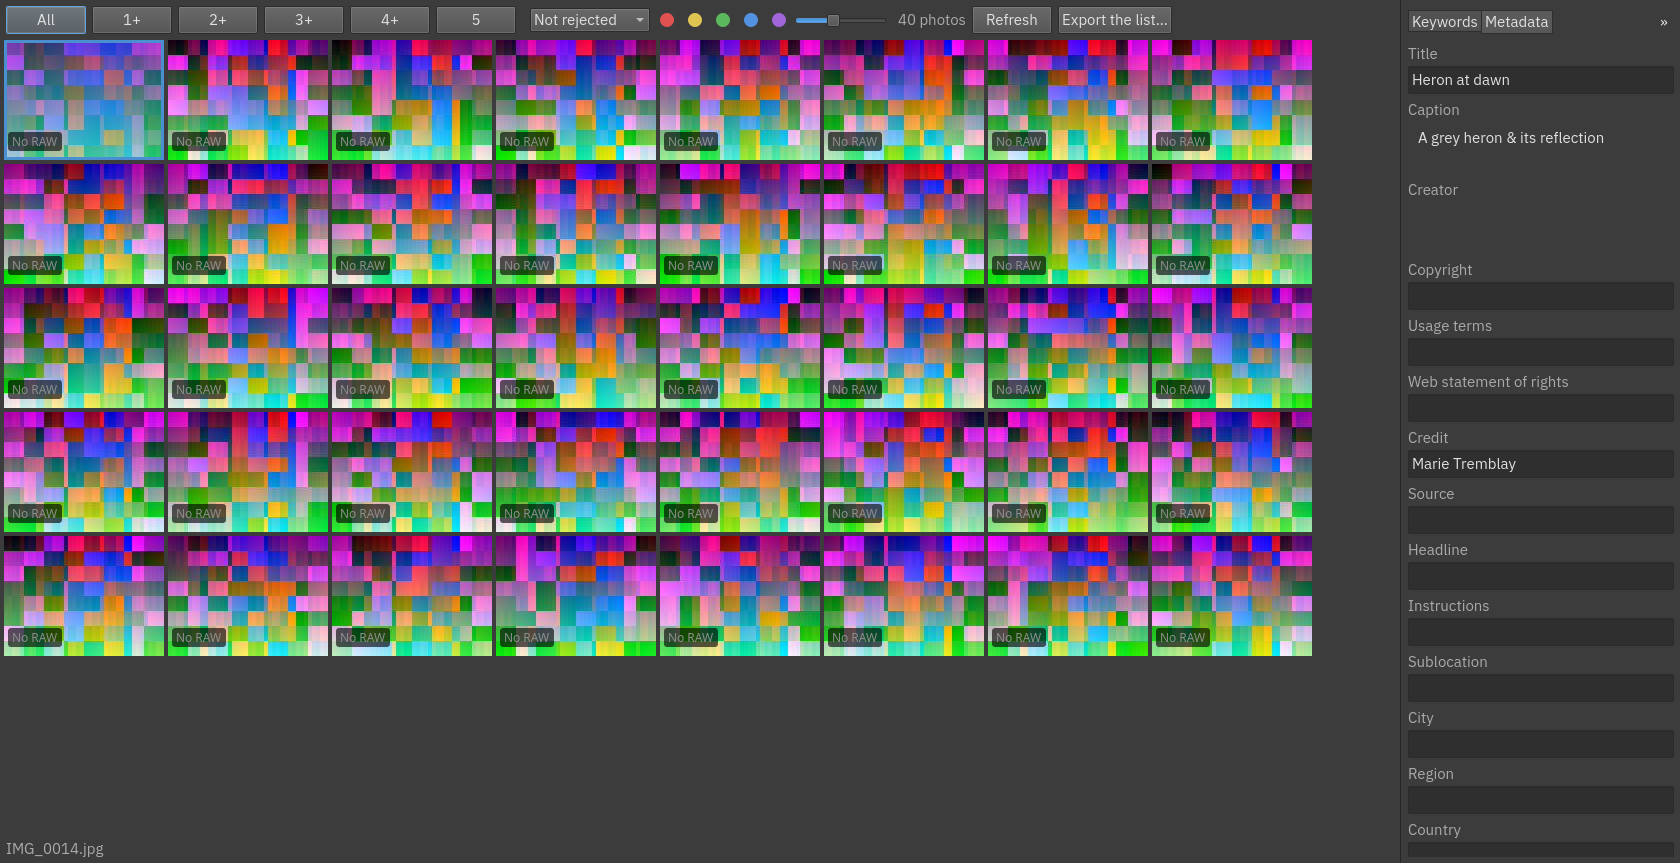
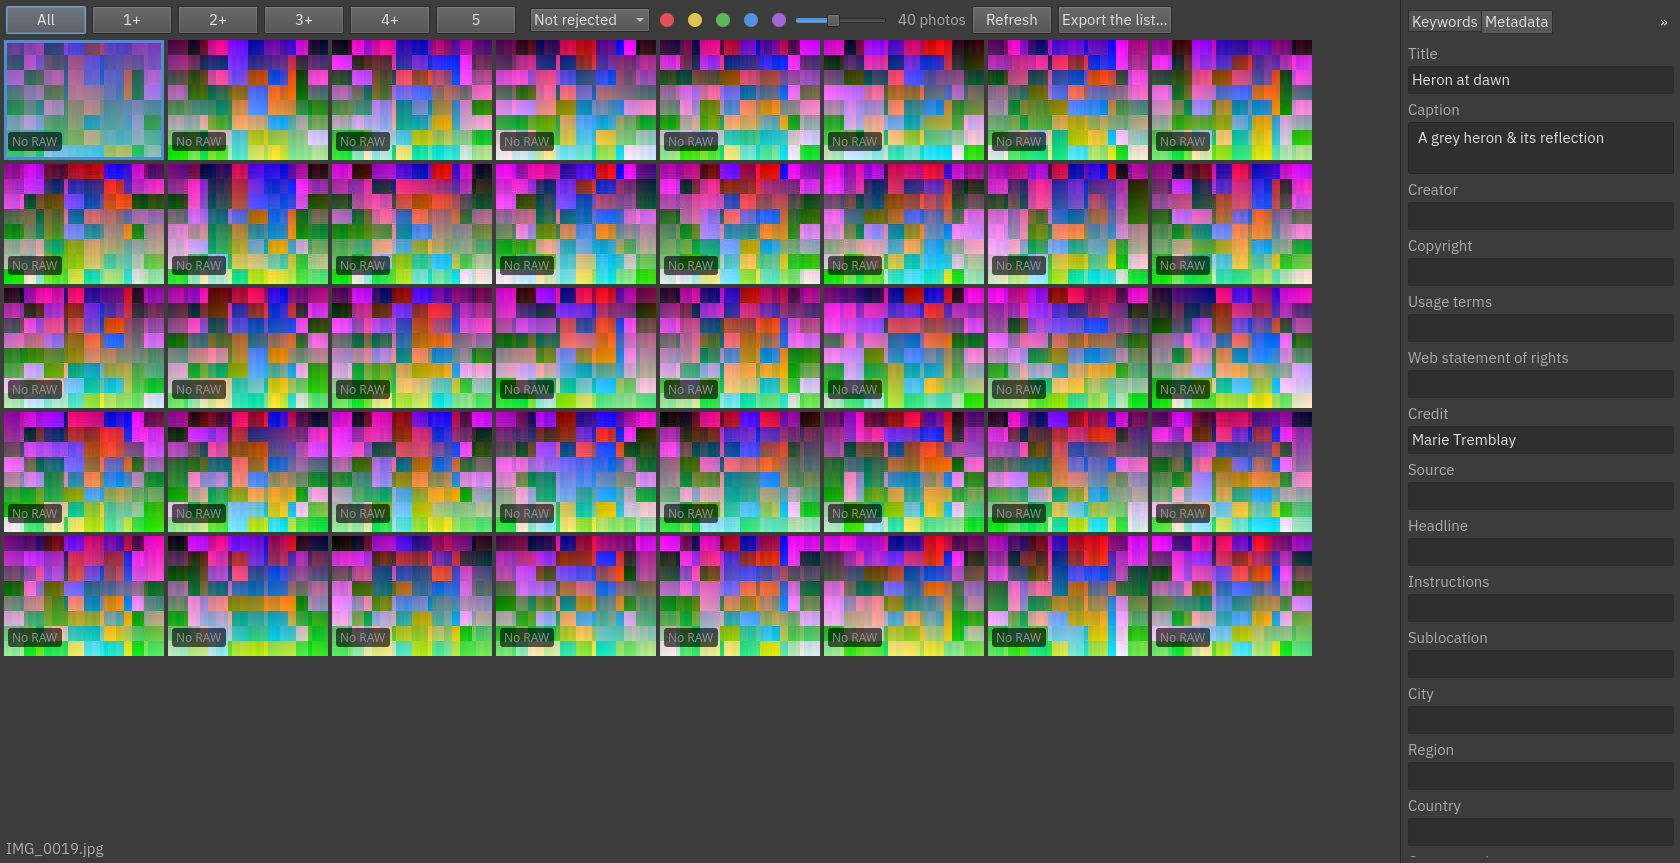
Fix metadata panel review comments, and a macOS-only CI flake
From Patrick's own review the next morning:

- A multi-line field (TextArea) had no background of its own - unlike
  TextField, Fusion does not give it one, so it read as bare text loose on
  the panel, not as a field. It now gets an explicit background matching
  TextField's own look.
- Creator moves from a multi-line field to a single line: almost every photo
  has exactly one. MetadataField::Creator's own get/set is unchanged (still
  Vec<String>, still line-split); only the panel's own field list changed.

Also fixes a macOS-only CI failure this same push's own run caught:
tst_metadata.qml read the panel's mixed/singleLine.text right after a plain
grid click, not waiting for the debounced refresh (Library.qml's usageTimer)
to reach it - passed locally and on Linux/Windows every time, failed
reliably on macOS. Fixed with tryVerify.

- decisions.md: D-122.

diff --git a/crates/ui/qml/MetadataPanel.qml b/crates/ui/qml/MetadataPanel.qml
@@ -8,19 +8,21 @@ import org.auroraw.ui
 // caption and the rest of its plain-text metadata, on one photo or a whole selection. A field where the
 // selection disagrees shows "Multiple values" instead of a value; leaving the field (Tab, a click
 // elsewhere, or Enter for the single-line ones) applies what was typed to the whole selection as one
-// action (`PhotoGrid.setMetadataSelection`, the same shape `labelSelection` already has). Creator and
-// Persons take one name a line. GPS and place names are a later slice's; custom fields have no UI here
-// yet (the engine and the format already carry one end to end, WP10's own custom-field support).
+// action (`PhotoGrid.setMetadataSelection`, the same shape `labelSelection` already has). Persons shown
+// takes one name a line; Creator is a single line (Patrick's own call: almost every photo has exactly
+// one, and `MetadataField::Creator`'s own line-splitting get/set still holds underneath, a list of one).
+// GPS and place names are a later slice's; custom fields have no UI here yet (the engine and the format
+// already carry one end to end, WP10's own custom-field support).
 Item {
     id: panel
     required property var photoGrid
 
     // Every field a row shows, in order: its key (`MetadataField::key`) and its label; `multiline` for
-    // the two list fields.
+    // the fields whose text can run to more than a line (Creator is not one of them: see above).
     readonly property var fields: [
         { key: "title", label: qsTr("Title"), multiline: false },
         { key: "caption", label: qsTr("Caption"), multiline: true },
-        { key: "creator", label: qsTr("Creator"), multiline: true },
+        { key: "creator", label: qsTr("Creator"), multiline: false },
         { key: "rights", label: qsTr("Copyright"), multiline: false },
         { key: "usage-terms", label: qsTr("Usage terms"), multiline: false },
         { key: "web-statement", label: qsTr("Web statement of rights"), multiline: false },
@@ -108,6 +110,14 @@ Item {
                 wrapMode: TextArea.Wrap
                 placeholderText: row.mixed ? qsTr("Multiple values") : ""
                 onActiveFocusChanged: if (!activeFocus) row.apply(text)
+                // Unlike TextField, Fusion gives TextArea no background of its own: without one it read
+                // as bare text loose on the panel, not as a field (Patrick's own review caught this).
+                background: Rectangle {
+                    color: palette.base
+                    radius: 3
+                    border.width: 1
+                    border.color: multiLine.activeFocus ? palette.highlight : palette.mid
+                }
             }
         }
     }

diff --git a/crates/ui/tests/qml/tst_metadata.qml b/crates/ui/tests/qml/tst_metadata.qml
@@ -98,15 +98,16 @@ AppTestCase {
         click(1)
         typeField("event", "Anniversary")
         selectFirst(2)
+        // The panel refreshes off the same debounced timer the keyword panel's own usage already does
+        // (Library.qml's usageTimer): a bare selection change needs a moment to reach it.
+        tryVerify(() => rowFor("event").mixed === true, 5000)
         const row = rowFor("event")
-        compare(row.mixed, true)
         compare(row.singleLine.placeholderText, "Multiple values")
         compare(row.singleLine.text, "", "no value is guessed at")
 
         click(0)
-        const same = rowFor("event")
-        compare(same.mixed, false)
-        compare(same.singleLine.text, "Wedding")
+        tryVerify(() => rowFor("event").mixed === false, 5000)
+        compare(rowFor("event").singleLine.text, "Wedding")
     }
 
     function test_undo_and_redo_the_panel_shows_it_too() {
@@ -120,16 +121,25 @@ AppTestCase {
         tryVerify(() => rowFor("headline").singleLine.text === "Dawn", 5000, "the panel follows the redo")
     }
 
-    function test_the_two_list_fields_take_one_name_a_line() {
-        const row = rowFor("creator")
+    function test_the_multiline_list_field_takes_one_name_a_line() {
+        const row = rowFor("persons")
         verify(row.multiLine.visible && !row.singleLine.visible, "a multi-line field")
         click(0)
         row.multiLine.forceActiveFocus()
         row.multiLine.text = "Marie Tremblay\nJean Roy"
         grid.forceActiveFocus()
         wait(60)
-        const meta = JSON.parse(app.photos.metadataOf("creator"))
+        const meta = JSON.parse(app.photos.metadataOf("persons"))
         compare(meta.value, "Marie Tremblay\nJean Roy")
+    }
+
+    function test_creator_is_a_single_line_field_though_it_is_a_list_underneath() {
+        // Patrick's own review, the morning after: almost every photo has exactly one creator.
+        const row = rowFor("creator")
+        verify(!row.multiLine.visible && row.singleLine.visible, "a single-line field")
+        click(0)
+        typeField("creator", "Marie Tremblay")
+        compare(JSON.parse(app.photos.metadataOf("creator")).value, "Marie Tremblay")
     }
 
     function test_an_empty_value_clears_the_field() {

diff --git a/docs/decisions.md b/docs/decisions.md
@@ -125,4 +125,5 @@ Decisions confirmed by Patrick, in order. A reversed decision is not deleted: it
 | D-118 | 2026-09-27 | **A rescan's Done message says when it found a duplicate (issue #16).** `Event::IndexFinished.second_locations` (D-108's own count of files confirmed as a second location of an existing photo, joined rather than added) was already computed but dropped on the floor between the engine and the interface — `Bus::index_finished`'s own qsignal never carried it. It now does (`duplicates`, threaded through `CatalogueFlow.qml`'s handler); the Done message gains a fifth clause, *", %5 duplicate(s) found"*, only when `duplicates > 0` — a separate `qsTr` sentence, not a clause spliced onto the usual one, so nothing about word order is assumed across languages, and the message a rescan without any duplicate produces is untouched, byte for byte. |
 | D-119 | 2026-09-27 | **Every folder or file picker now remembers its own last folder (issue #18), generalizing #9 and #10.** A survey of every picker in the app found three with no memory at all: `Main.qml`'s "Open a workspace", and the two `FileSaveDialog`s exporting a list (`Library.qml`'s and `DuplicatesDialog.qml`'s, issue #13) — `NewWorkspaceDialog`, `AddSourceDialog` and `ImportDialog`'s own three fields already remember, and more strongly (pre-filling the field itself before Browse is even clicked), so they are left as they are rather than weakened to a field-blind mechanism. `AppSettings`'s two single-purpose fields (`last_workspace_folder`, `last_source_folder`) are replaced by one `last_folders: HashMap<String, String>`, keyed by a short name of the picker (`"workspace"`, `"source"`, and now `"open-workspace"`, `"export-photos"`, `"export-duplicates"`) — a new picker needs only a new key, not a new field and a new pair of call sites. `Folders` (the QML singleton already used for `Folders.closest`) gains `last(key)`/`remember(key, folder)`; `FolderPicker.qml` and `FileSaveDialog.qml` gain an opt-in `rememberAs` property wired through them, left empty on the pickers that already remember through their own field. |
 | D-120 | 2026-09-28 | **A Tools menu groups Import, Keywords and Duplicate photos (issue #14).** `AppMenu.qml` had them split across File (Import) and Edit (Keywords, Duplicate photos); a fourth section, **Tools** (mnemonic T, no collision with File/Edit/Help's own F/E/H, nor with French's F/É/A — `&Outils`, mnemonic O), now holds all three, between Edit and Help. Caught by `tst_menus.qml`'s own updated coverage, not by hand: `Main.qml`'s `Repeater { model: 3 }` behind every section's Alt+letter shortcut was sized for File/Edit/Help only, so Alt+H (now the *fourth* section, not the third) silently had no shortcut at all until the model became 4 — exactly the kind of thing a hard-coded count over "every section" quietly stops covering the moment one more is added. `docs/manual/`'s own mentions of **File ▸ Import…** and **Edit ▸ Keywords**/**Edit ▸ Duplicate photos…** updated to **Tools ▸**; `menu-file.png` regenerated (the only manual image this touches — File's own rows changed, nothing else did). |
-| D-121 | 2026-09-28 | **WP10 starts: the metadata panel (spec §5.7), slice 1 of what WP9 showed is a multi-slice work package.** Patrick's own choices going in: the panel is a second tab of the existing keyword panel (`KeywordPanel.qml`, now the inspector's shared shell — its own resizable, collapsible chrome, the `edge`/`panelWidth` it already had, untouched by the tabs it now hosts); all 17 of `Metadata`'s plain-text fields at once (title, caption, creator, copyright, ...; GPS and place names are a later slice's, keywords already have their own panel); a distinct undo label per field, not one generic one; and the *design* must support a field beyond the fixed 17, by name, end to end (engine, catalogue round-trip, sidecar format), with **no UI to create or manage one yet** — spec §5.7's own "custom fields... through plugins" left for later, but nothing about this slice should need revisiting to add that UI when it comes. Concretely: `Metadata` (`crates/format/src/sidecar/metadata.rs`) gains `custom: Vec<CustomField>` (a name and a value), round-tripped as an `aur:Custom` array of structures the same shape `Files`/`Overlay` already use, present only when non-empty (so an untouched photo's XMP, and its digest, do not change); `MetadataField` (`crates/engine/src/command.rs`) is one generic enum covering the 17 known fields *and* `Custom(String)`, with `get`/`set` against a `Metadata` and a `key`/`parse` round trip (`"title"`, ..., `"custom:<name>"`) the interface uses instead of a closed set of commands; `Command::SetMetadataField` and `Change::Metadata` (`history.rs`) follow `SetRating`'s own shape exactly, usable in a `Batch` the same way; `LabelKind` gains one variant per known field plus one shared `MetaCustom` (an unbounded set of custom names cannot each have a hard-coded menu string). `PhotoGrid` gains `metadataOf`/`setMetadataSelection` (`models.rs`), the same shape `keywordUsage`/`labelSelection` already have, reading a selection's sidecars directly (`Engine::metadata_field_of`, new: nothing here is a catalogue column, unlike rating/flag/label, since nothing searches by these yet) rather than the grid's own catalogue rows; unlike `labelSelection`'s own fire-and-forget `submit`, `setMetadataSelection` waits (`submit_and_wait`) — the grid mirrors a rating or a label into its cells at once, so a fire-and-forget write is enough there, but the metadata panel has no cell to mirror into and reads the field straight back afterwards to show exactly what was kept (a list field's blank lines dropped, say), which needs the write to have already landed; discovered by the panel's own manual screenshot showing a field revert to empty right after typing it, a real race, not a snapshot artefact. `MetadataPanel.qml` shows the 17 fields as one column, "Multiple values" over a selection that disagrees, applied on leaving a field (blur or Enter); creator and persons are one name a line. |
+| D-121 | 2026-09-28 | **WP10 starts: the metadata panel (spec §5.7), slice 1 of what WP9 showed is a multi-slice work package.** Patrick's own choices going in: the panel is a second tab of the existing keyword panel (`KeywordPanel.qml`, now the inspector's shared shell — its own resizable, collapsible chrome, the `edge`/`panelWidth` it already had, untouched by the tabs it now hosts); all 17 of `Metadata`'s plain-text fields at once (title, caption, creator, copyright, ...; GPS and place names are a later slice's, keywords already have their own panel); a distinct undo label per field, not one generic one; and the *design* must support a field beyond the fixed 17, by name, end to end (engine, catalogue round-trip, sidecar format), with **no UI to create or manage one yet** — spec §5.7's own "custom fields... through plugins" left for later, but nothing about this slice should need revisiting to add that UI when it comes. Concretely: `Metadata` (`crates/format/src/sidecar/metadata.rs`) gains `custom: Vec<CustomField>` (a name and a value), round-tripped as an `aur:Custom` array of structures the same shape `Files`/`Overlay` already use, present only when non-empty (so an untouched photo's XMP, and its digest, do not change); `MetadataField` (`crates/engine/src/command.rs`) is one generic enum covering the 17 known fields *and* `Custom(String)`, with `get`/`set` against a `Metadata` and a `key`/`parse` round trip (`"title"`, ..., `"custom:<name>"`) the interface uses instead of a closed set of commands; `Command::SetMetadataField` and `Change::Metadata` (`history.rs`) follow `SetRating`'s own shape exactly, usable in a `Batch` the same way; `LabelKind` gains one variant per known field plus one shared `MetaCustom` (an unbounded set of custom names cannot each have a hard-coded menu string). `PhotoGrid` gains `metadataOf`/`setMetadataSelection` (`models.rs`), the same shape `keywordUsage`/`labelSelection` already have, reading a selection's sidecars directly (`Engine::metadata_field_of`, new: nothing here is a catalogue column, unlike rating/flag/label, since nothing searches by these yet) rather than the grid's own catalogue rows; unlike `labelSelection`'s own fire-and-forget `submit`, `setMetadataSelection` waits (`submit_and_wait`) — the grid mirrors a rating or a label into its cells at once, so a fire-and-forget write is enough there, but the metadata panel has no cell to mirror into and reads the field straight back afterwards to show exactly what was kept (a list field's blank lines dropped, say), which needs the write to have already landed; discovered by the panel's own manual screenshot showing a field revert to empty right after typing it, a real race, not a snapshot artefact. `MetadataPanel.qml` shows the 17 fields as one column, "Multiple values" over a selection that disagrees, applied on leaving a field (blur or Enter); Persons shown is a multi-line field, one name a line, Creator a single line (Patrick's own review: almost every photo has exactly one). |
+| D-122 | 2026-09-28 | **Two small fixes to the metadata panel, from Patrick's own review the next morning, and a CI flake caught by the very push that fixed them.** A multi-line field (`TextArea`, only Caption and Persons shown now) had no background of its own — unlike `TextField`, Fusion does not give it one, so it read as bare text loose on the panel, not as a field; it now gets an explicit one (`palette.base`, a border that picks out `palette.highlight` focused), matching `TextField`'s own look. Creator moves from a multi-line field to a single line, alongside Copyright and the rest (`MetadataPanel.qml`'s own `fields` list only, `MetadataField::Creator`'s get/set in `command.rs` is unchanged — still `Vec<String>`, still line-split — a `TextField` simply never holds more than one line to split). The push that carried these also caught a macOS-only CI failure in `tst_metadata.qml`: a test read the panel's own `mixed`/`singleLine.text` right after a plain grid click, not waiting for the debounced refresh (`Library.qml`'s `usageTimer`, the same one the keyword panel's own usage already rides) to reach it — passed locally and on the other two platforms every time, failed reliably on the (evidently slower under CI) macOS runner. Fixed with `tryVerify`, the same fix this project has reached for every timing-shaped flake so far. |
